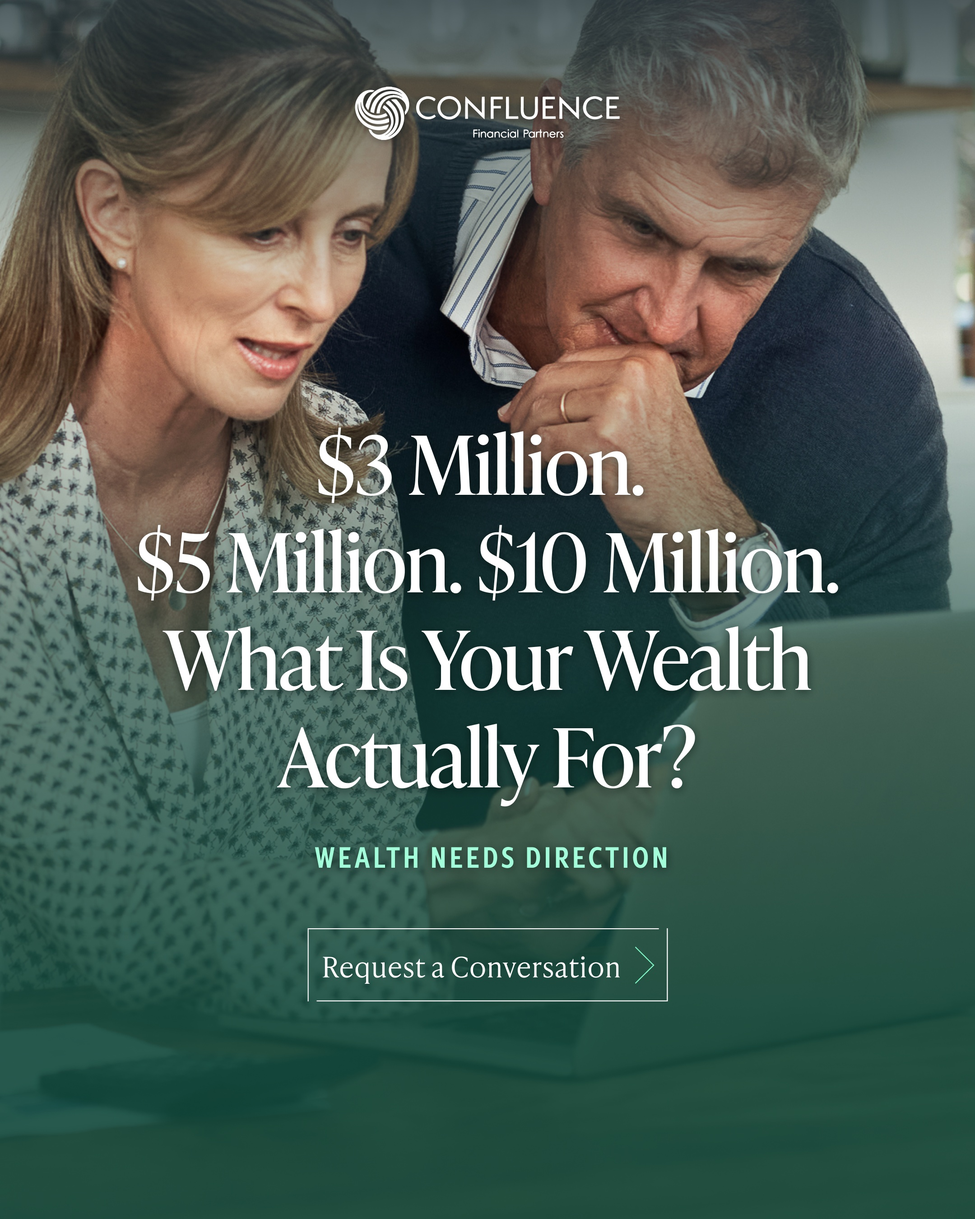
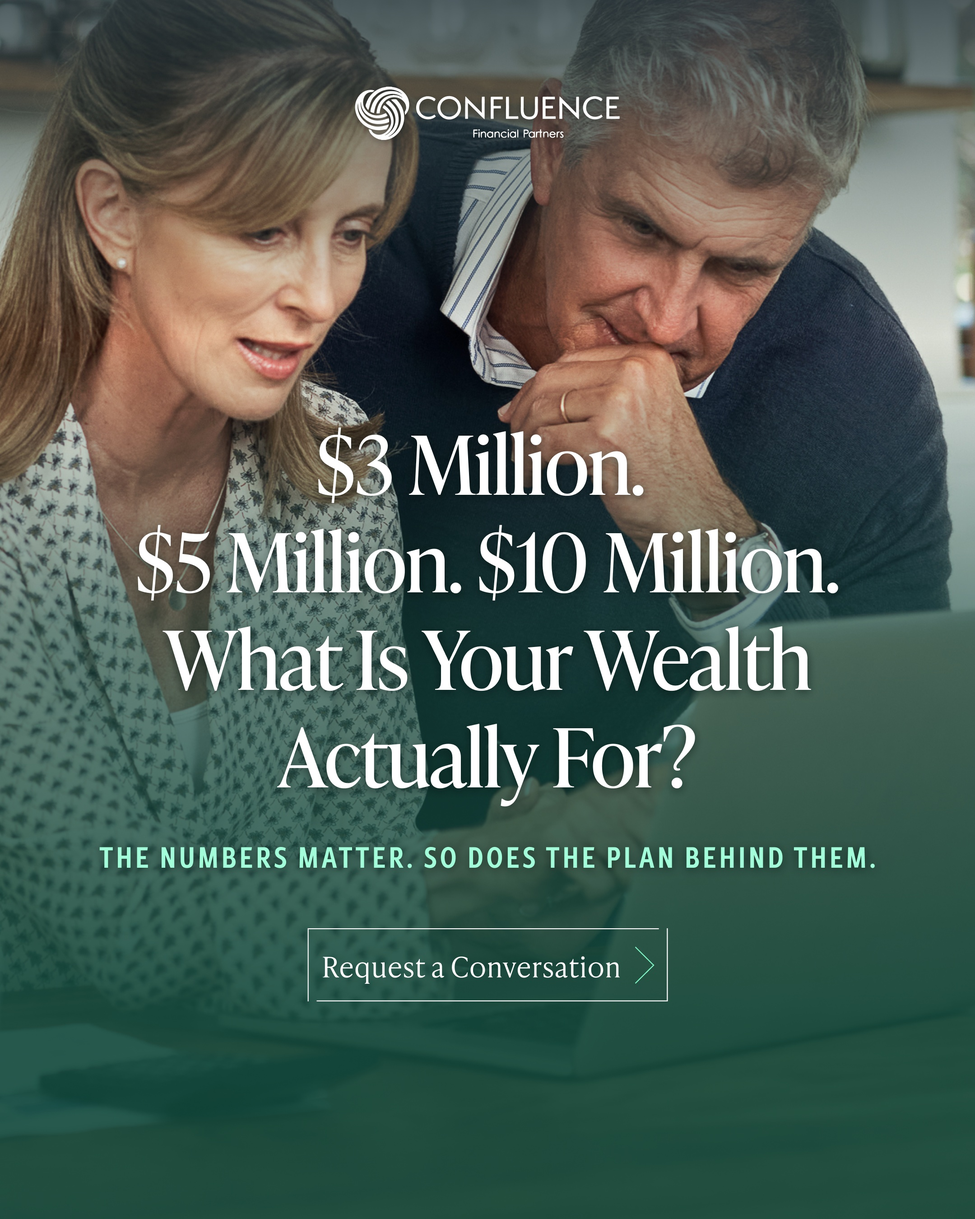
CFP vEdge: Ad 2 (Purpose) eyebrow -> 'The numbers matter...' (Katie edit); punchlist checked off

Changed region(s): [[0.0931, 0.6844, 0.8995, 0.7156]]

diff --git a/confluence-fp-consultation-vedge/index.html b/confluence-fp-consultation-vedge/index.html
@@ -1205,7 +1205,7 @@ let _activeImageVersion = {};
 let _placementIdx = {};
 let _feedbackCache = {};
 const CAMPAIGN_ID = 'confluence-fp-consultation-vedge';
-const ASSET_V = '1787329506';  // cache-bust token, stamped at bake time
+const ASSET_V = '1787329676';  // cache-bust token, stamped at bake time
 
 // ── Utility ────────────────────────────────────────────────────────────────
 function esc(s) {

diff --git a/confluence-fp-consultation-vedge/IMAGE-TEXT-PUNCHLIST.md b/confluence-fp-consultation-vedge/IMAGE-TEXT-PUNCHLIST.md
@@ -8,7 +8,7 @@ Source: `feedback` table, campaign `confluence-fp-consultation-vedge`.
 | Ad | Concept | Current on-image | Katie's requested edit | Status |
 |----|---------|------------------|------------------------|--------|
 | 1 | Clarity | eyebrow: WHEN THE PICTURE GETS COMPLEX | eyebrow → **"As wealth grows, so does complexity."** | ✅ placed (output 96) |
-| 2 | Purpose | eyebrow: WEALTH NEEDS DIRECTION | eyebrow → **"The numbers matter. So does the plan behind them."** | ☐ |
+| 2 | Purpose | eyebrow: WEALTH NEEDS DIRECTION | eyebrow → **"The numbers matter. So does the plan behind them."** | ✅ placed (output 97) |
 | 3 | Peace | headline: More Wealth. More Decisions. More Room for Mistakes? | headline → **"Does Your Plan Keep Up?"** | ☐ |
 | 4 | Standard | (no comment) | — | ✓ |
 | 5 | Proactive | Is Your Financial Advisor Proactive or Reactive? / WHY WAIT TO BE ASKED | headline → **"Is Your Financial Advisor Helping You Prepare for What's Next?"** · sub → **"Financial planning is about more than responding to change."** | ☐ |
